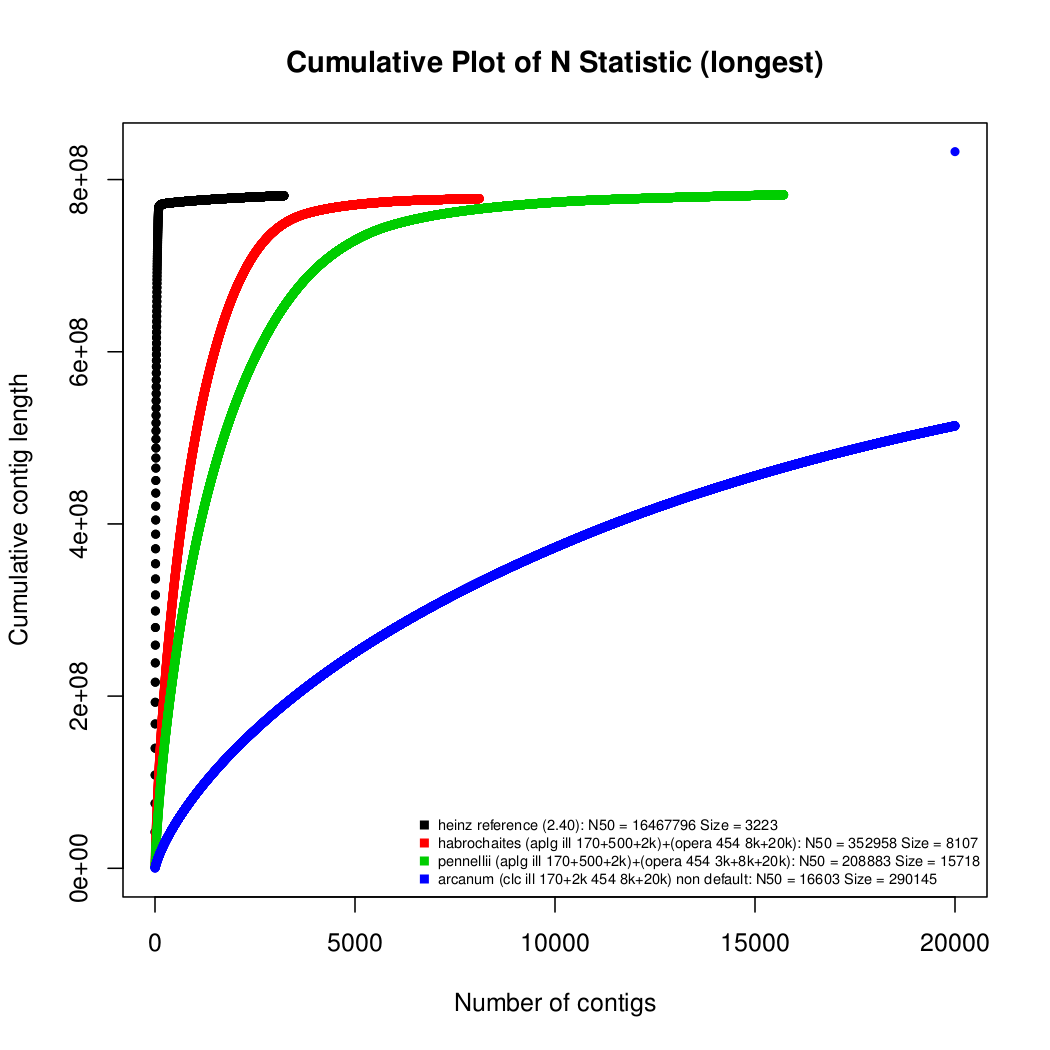
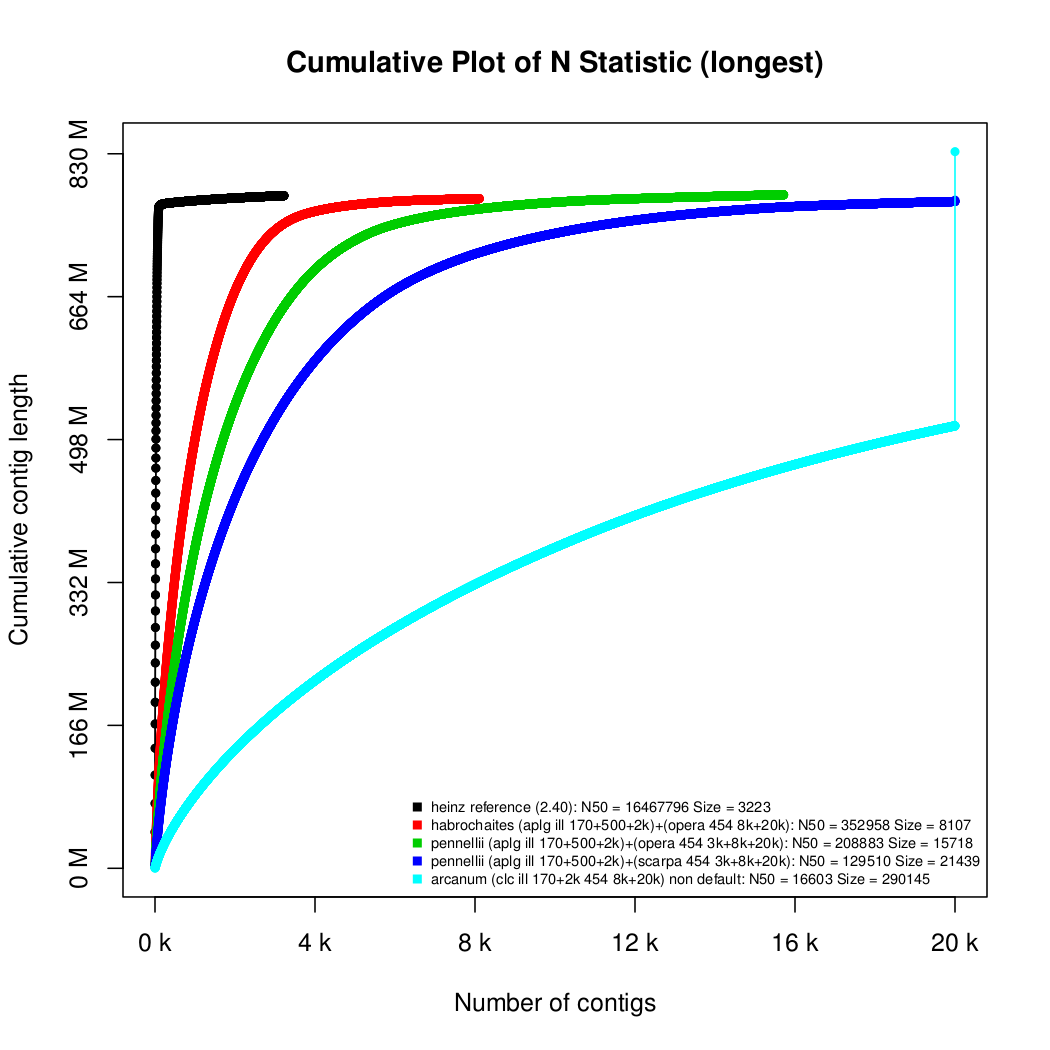
axis in SI. graphic with lines instead of dots

diff --git a/TODO.md b/TODO.md
@@ -4,6 +4,9 @@ TODO List
 - Make input csv with files to read an input variable
 - Make the reference length for N50 calculations an optional variable
 - Put licence on project
+
+
+Tue Jan 22 00:32:39 CET 2013 - S
 - Convert graph from 'dots' to 'lines' or even, maybe, smooth lines
 
 Mon Jan 21 01:27:52 CET 2013 - S
